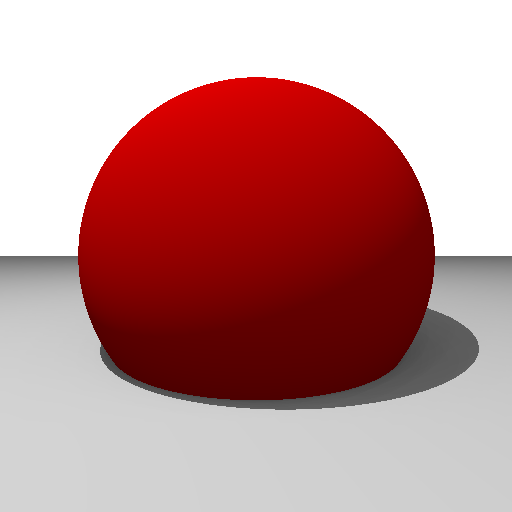
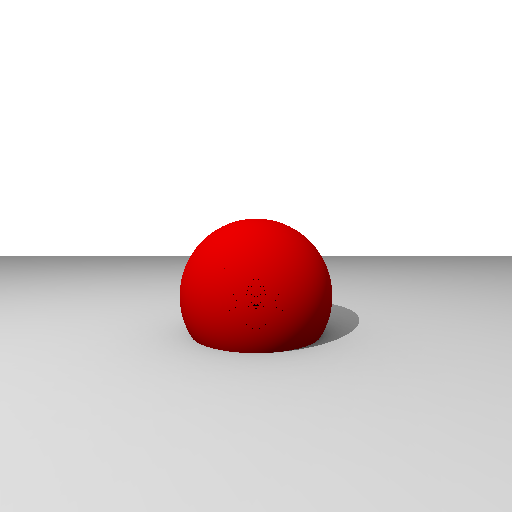
td2: fix camera image coordinates, add direction component

diff --git a/projets/tp2.cpp b/projets/tp2.cpp
@@ -177,15 +177,53 @@ Color compute_L_r_sky(Point p, Material material, Color L_i, Vector n, Point p_l
     return Color(L_r,1);
 }
 
+
+
+struct Camera {
+    Point o;
+    Vector d;
+    int imageHeight;
+    int imageWidth;
+
+    Camera(const Point& a, const Vector& u, const int i, const int j) : o(a), d(u), imageHeight(i), imageWidth(j) {};
+    
+    Point imagePlanePoint(int px, int py, int imH, int imW) {
+        Vector dir = normalize(d);
+        Vector up, right;
+        
+        // Choose up vector that's not parallel to direction
+        if (std::abs(dir.z) < 0.9f) {
+            // dir is NOT pointing up/down, so using Z-axis as reference is safe
+            right = normalize(cross(dir, Vector(0, 0, 1)));
+            up = normalize(cross(right, dir));
+        } else {
+            // dir IS pointing up/down (dir.z ≈ ±1), so use Y-axis instead
+            up = normalize(cross(dir, Vector(0, 1, 0)));
+            right = normalize(cross(dir, up));
+        }
+               
+        float aspect = float(imW) / float(imH);
+        float x = (2.0f * (px + 0.5f) / imW - 1.0f) * aspect;
+        float y = 2.0f * (py + 0.5f) / imH - 1.0f;
+        
+        // Image plane at distance 1.0 from camera
+        Point imagePoint = o + dir + x * right + y * up;
+        
+        return imagePoint;
+    }
+};
+
 int main( )
 {
     Image image(512, 512);
-    Point camera_origin = Point(0, 0, 0);
+    Point camera_origin = Point(0, 0, 1);
+    Vector camera_dir = Vector(1, 0, 0);
+    Camera camera(camera_origin, camera_dir, image.height(), image.width());
 
     // Init scene
     Scene scene;
-    scene.plans.push_back({Point(0,-1,0),Vector(0,1,0), Material(Color(0.9)) });
-    scene.spheres.push_back({Point(0,0,-3.5),2, Material(Color(Red())) });
+    scene.plans.push_back({Point(0,0,-1),Vector(0,0,1), Material(Color(0.9)) });
+    scene.spheres.push_back({Point(7,0,0),2, Material(Color(Red())) });
     scene.bg_color = Color(1);
     
     for(int py= 0; py < image.height(); py++)
@@ -195,10 +233,10 @@ int main( )
         Point o= Point(0, 0, 0);
   
         // extremite du rayon pour le pixel (px, py)
-        Point e= Point(float(px)/float(image.height())*2-1,float(py)/float(image.width())*2-1, -1);
+        Point e = camera.imagePlanePoint(px, py, image.height(), image.width());
         
         // Point d'emission de lumiere
-        Emission sun = {Point(-2,6,-0.25), Color(2)};
+        Emission sun = {Point(-2,6,10), Color(2)};
         Color sky = Color(2);
         
         // Direction du rayon et rayon associe
